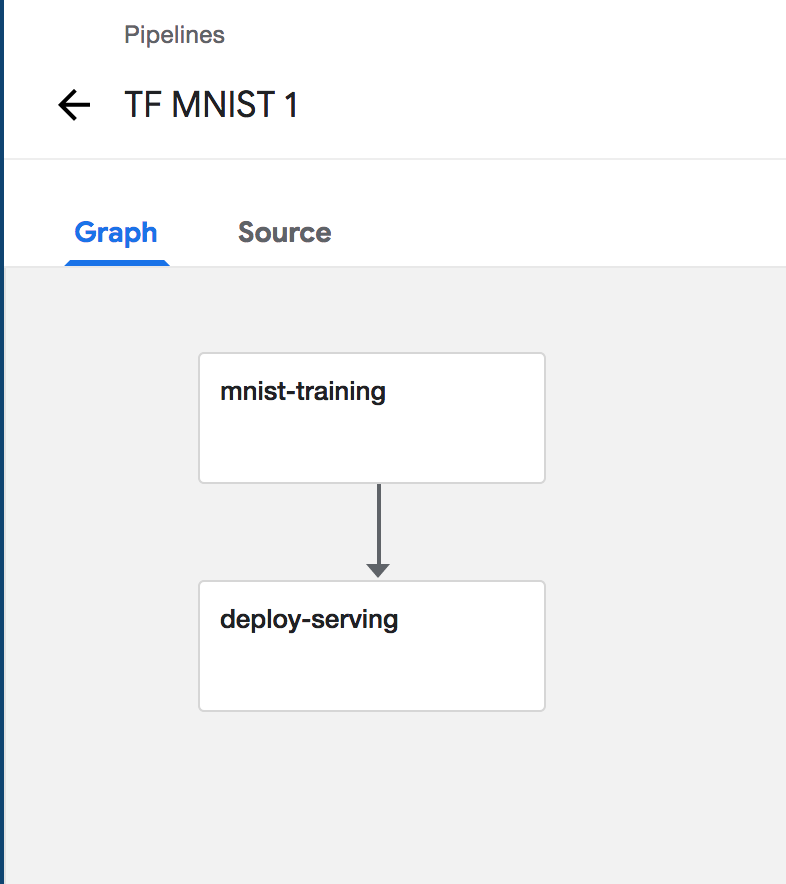
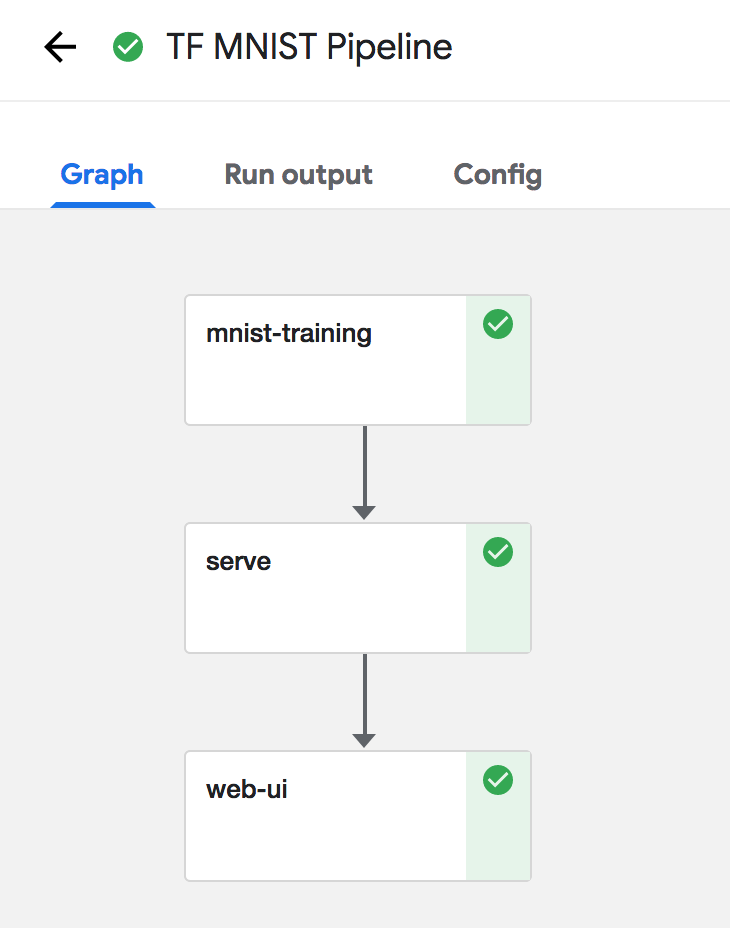
Adds custom container images for serve and web-ui deploy steps

diff --git a/pipelines/tf-mnist/tf_mnist_pipeline/tf_mnist_pipeline.py b/pipelines/tf-mnist/tf_mnist_pipeline/tf_mnist_pipeline.py
@@ -19,10 +19,10 @@ def mnist_train_op(tf_export_dir: str, train_steps: int, batch_size: int,
     )
 
 
-def kubeflow_serve_op(model_export_dir:str, step_name='deploy-serving'):
+def kubeflow_serve_op(model_export_dir:str, step_name='serve'):
     return dsl.ContainerOp(
         name=step_name,
-        image='krishnadurai/ml-pipelines-tf-mnist-deploy-service:0.2',
+        image='krishnadurai/ml-pipelines-tf-mnist-serve:0.1',
         arguments=[
             '--model-export-path', model_export_dir,
             '--server-name', 'mnist-service'
@@ -32,7 +32,7 @@ def kubeflow_serve_op(model_export_dir:str, step_name='deploy-serving'):
 def kubeflow_web_ui_op(step_name='web-ui'):
     return dsl.ContainerOp(
         name='web-ui',
-        image='gcr.io/kubeflow-examples/mnist/deploy-service:latest',
+        image='krishnadurai/ml-pipelines-tf-mnist-deploy-service:0.4',
         arguments=[
             '--image', 'gcr.io/kubeflow-examples/mnist/web-ui:'
                        'v20190304-v0.2-176-g15d997b-pipelines',
@@ -67,15 +67,15 @@ def tf_mnist_pipeline(
     mnist_training.add_volume(nfs_volume)
     mnist_training.add_volume_mount(nfs_volume_mount)
 
-    deploy_serving = kubeflow_serve_op('/mnt/%s' % model_export_dir)
-    deploy_serving.add_volume(nfs_volume)
-    deploy_serving.add_volume_mount(nfs_volume_mount)
-    deploy_serving.after(mnist_training)
+    serve = kubeflow_serve_op('/mnt/%s' % model_export_dir)
+    serve.add_volume(nfs_volume)
+    serve.add_volume_mount(nfs_volume_mount)
+    serve.after(mnist_training)
 
     web_ui = kubeflow_web_ui_op()
     web_ui.add_volume(nfs_volume)
     web_ui.add_volume_mount(nfs_volume_mount)
-    web_ui.after(deploy_serving)
+    web_ui.after(serve)
 
 if __name__ == "__main__":
     import kfp.compiler as compiler
